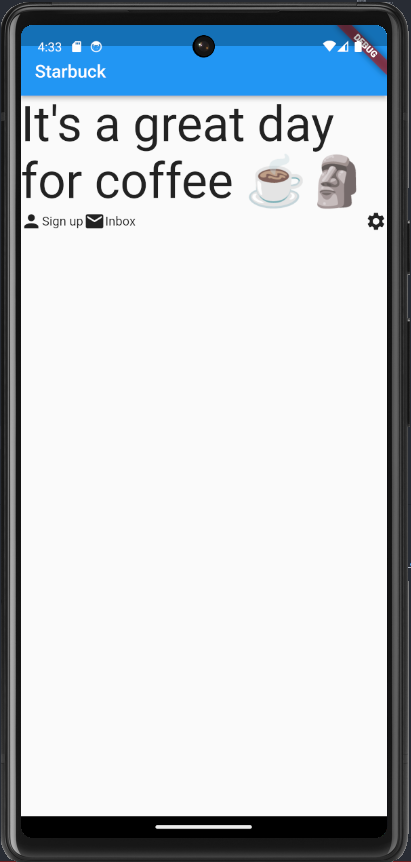
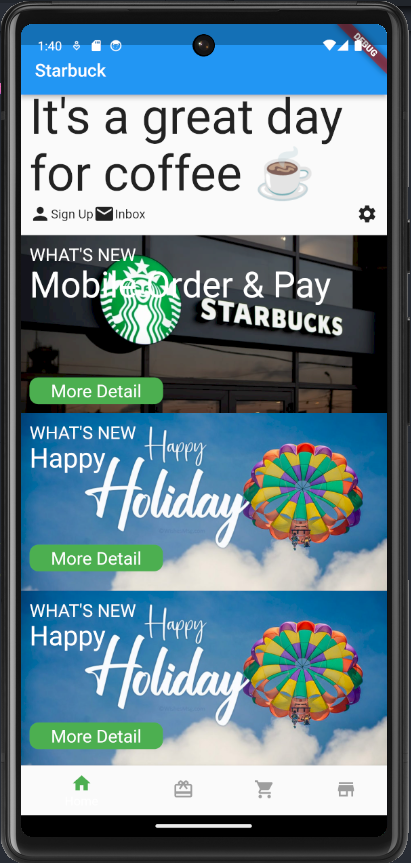
feat : add new item list

diff --git a/lib/starbuck.dart b/lib/starbuck.dart
@@ -9,39 +9,240 @@ class Starbuck extends StatelessWidget {
       appBar: AppBar(
         title: Text("Starbuck"),
       ),
-      body: Column(
-        children: [
-          Flexible(
-            child: Text(
-              "It's a great day for coffee ☕🗿",
-              style: TextStyle(fontSize: 55),
+      bottomNavigationBar: BottomNavigationBar(
+        items: [
+          BottomNavigationBarItem(
+            icon: Icon(
+              Icons.home,
+              color: Colors.green,
             ),
+            label: "Home",
           ),
-          Row(
-            mainAxisAlignment: MainAxisAlignment.spaceBetween,
-            children: [
-              Container(
-                child: Row(
-                  children: [
-                    Icon(
-                      Icons.person,
-                    ),
-                    Text("Sign up"),
-                    Icon(
-                      Icons.mail,
-                    ),
-                    Text("Inbox")
-                  ],
-                ),
-              ),
-              Container(
-                child: Icon(
-                  Icons.settings,
-                ),
-              )
-            ],
-          )
+          BottomNavigationBarItem(
+            icon: Icon(
+              Icons.card_giftcard,
+              color: Colors.grey,
+            ),
+            label: "Card",
+          ),
+          BottomNavigationBarItem(
+            icon: Icon(
+              Icons.shopping_cart,
+              color: Colors.grey,
+            ),
+            label: "Order",
+          ),
+          BottomNavigationBarItem(
+            icon: Icon(
+              Icons.store,
+              color: Colors.grey,
+            ),
+            label: "Store",
+          ),
         ],
+      ),
+      body: SingleChildScrollView(
+        child: Column(
+          children: [
+            //  1st row
+            Container(
+              padding: EdgeInsets.all(10),
+              width: MediaQuery.of(context).size.width,
+              height: 175,
+              child: Column(
+                crossAxisAlignment: CrossAxisAlignment.start,
+                children: [
+                  Text(
+                    "It's a great day",
+                    style: TextStyle(
+                      fontSize: 55,
+                    ),
+                  ),
+                  Text(
+                    "for coffee ☕",
+                    style: TextStyle(
+                      fontSize: 55,
+                    ),
+                  ),
+                  Row(
+                    mainAxisAlignment: MainAxisAlignment.spaceBetween,
+                    children: [
+                      // add icon and text sign up here container
+                      Container(
+                        child: Row(
+                          children: [
+                            Row(
+                              children: [Icon(Icons.person), Text("Sign Up")],
+                            ),
+                            // Inbox icon and text
+                            Row(
+                              children: [Icon(Icons.mail), Text("Inbox")],
+                            ),
+                          ],
+                        ),
+                      ),
+                      // setting icon
+                      Container(
+                        child: Icon(Icons.settings),
+                      ),
+                    ],
+                  ),
+                ],
+              ),
+            ),
+            // 2nd row
+            Container(
+              padding: EdgeInsets.all(10),
+              // insert image here from url background
+              width: MediaQuery.of(context).size.width,
+              height: 200,
+              decoration: BoxDecoration(
+                image: DecorationImage(
+                    image: NetworkImage(
+                        "https://assets.brandinside.asia/uploads/2020/06/shutterstock_1237944661.jpg"),
+                    fit: BoxFit.cover),
+              ),
+              child: Column(
+                crossAxisAlignment: CrossAxisAlignment.start,
+                children: [
+                  Text(
+                    "WHAT'S NEW",
+                    style: TextStyle(fontSize: 20, color: Colors.white),
+                  ),
+                  Text(
+                    "Mobile Order & Pay",
+                    style: TextStyle(fontSize: 40, color: Colors.white),
+                  ),
+                  SizedBox(
+                    height: 80,
+                  ),
+                  // button more detail and green background and white text
+                  Container(
+                    width: 150,
+                    height: 30,
+                    decoration: BoxDecoration(
+                      color: Colors.green,
+                      borderRadius: BorderRadius.circular(10),
+                    ),
+                    child: Center(
+                      child: Text(
+                        "More Detail",
+                        style: TextStyle(
+                          color: Colors.white,
+                          fontSize: 20,
+                        ),
+                      ),
+                    ),
+                  ),
+                ],
+              ),
+            ),
+            // 3
+            Container(
+              padding: EdgeInsets.all(10),
+              width: MediaQuery.of(context).size.width,
+              height: 200,
+              decoration: BoxDecoration(
+                image: DecorationImage(
+                    image: NetworkImage(
+                        "https://www.wishesmsg.com/wp-content/uploads/Happy-Holiday-Wishes-1-1280x720.jpg"),
+                    fit: BoxFit.cover),
+              ),
+              child: Column(
+                crossAxisAlignment: CrossAxisAlignment.start,
+                children: [
+                  Text(
+                    "WHAT'S NEW",
+                    style: TextStyle(
+                      fontSize: 20,
+                      color: Colors.white,
+                    ),
+                  ),
+                  Text(
+                    "Happy",
+                    style: TextStyle(
+                      fontSize: 30,
+                      color: Colors.white,
+                    ),
+                  ),
+                  SizedBox(
+                    height: 80,
+                  ),
+                  // button more detail and green background and white text
+                  Container(
+                    width: 150,
+                    height: 30,
+                    decoration: BoxDecoration(
+                      color: Colors.green,
+                      borderRadius: BorderRadius.circular(10),
+                    ),
+                    child: Center(
+                      child: Text(
+                        "More Detail",
+                        style: TextStyle(
+                          color: Colors.white,
+                          fontSize: 20,
+                        ),
+                      ),
+                    ),
+                  ),
+                ],
+              ),
+            ),
+            //4
+            Container(
+              padding: EdgeInsets.all(10),
+              width: MediaQuery.of(context).size.width,
+              height: 200,
+              decoration: BoxDecoration(
+                image: DecorationImage(
+                    image: NetworkImage(
+                        "https://www.wishesmsg.com/wp-content/uploads/Happy-Holiday-Wishes-1-1280x720.jpg"),
+                    fit: BoxFit.cover),
+              ),
+              child: Column(
+                crossAxisAlignment: CrossAxisAlignment.start,
+                children: [
+                  Text(
+                    "WHAT'S NEW",
+                    style: TextStyle(
+                      fontSize: 20,
+                      color: Colors.white,
+                    ),
+                  ),
+                  Text(
+                    "Happy",
+                    style: TextStyle(
+                      fontSize: 30,
+                      color: Colors.white,
+                    ),
+                  ),
+                  SizedBox(
+                    height: 80,
+                  ),
+                  // button more detail and green background and white text
+                  Container(
+                    width: 150,
+                    height: 30,
+                    decoration: BoxDecoration(
+                      color: Colors.green,
+                      borderRadius: BorderRadius.circular(10),
+                    ),
+                    child: Center(
+                      child: Text(
+                        "More Detail",
+                        style: TextStyle(
+                          color: Colors.white,
+                          fontSize: 20,
+                        ),
+                      ),
+                    ),
+                  ),
+                ],
+              ),
+            ),
+          ],
+        ),
       ),
     );
   }

diff --git a/README.md b/README.md
@@ -1,4 +1,8 @@
-# ex1_starbuck
+# ex1_starbuck : Basic Widget
+## Name : Boorapa Chrenarrom
+### ID : 6340011007
+
+<img src="assets/images/starbuck.png" style="width: 300px;">
 
 A new Flutter project.
 
